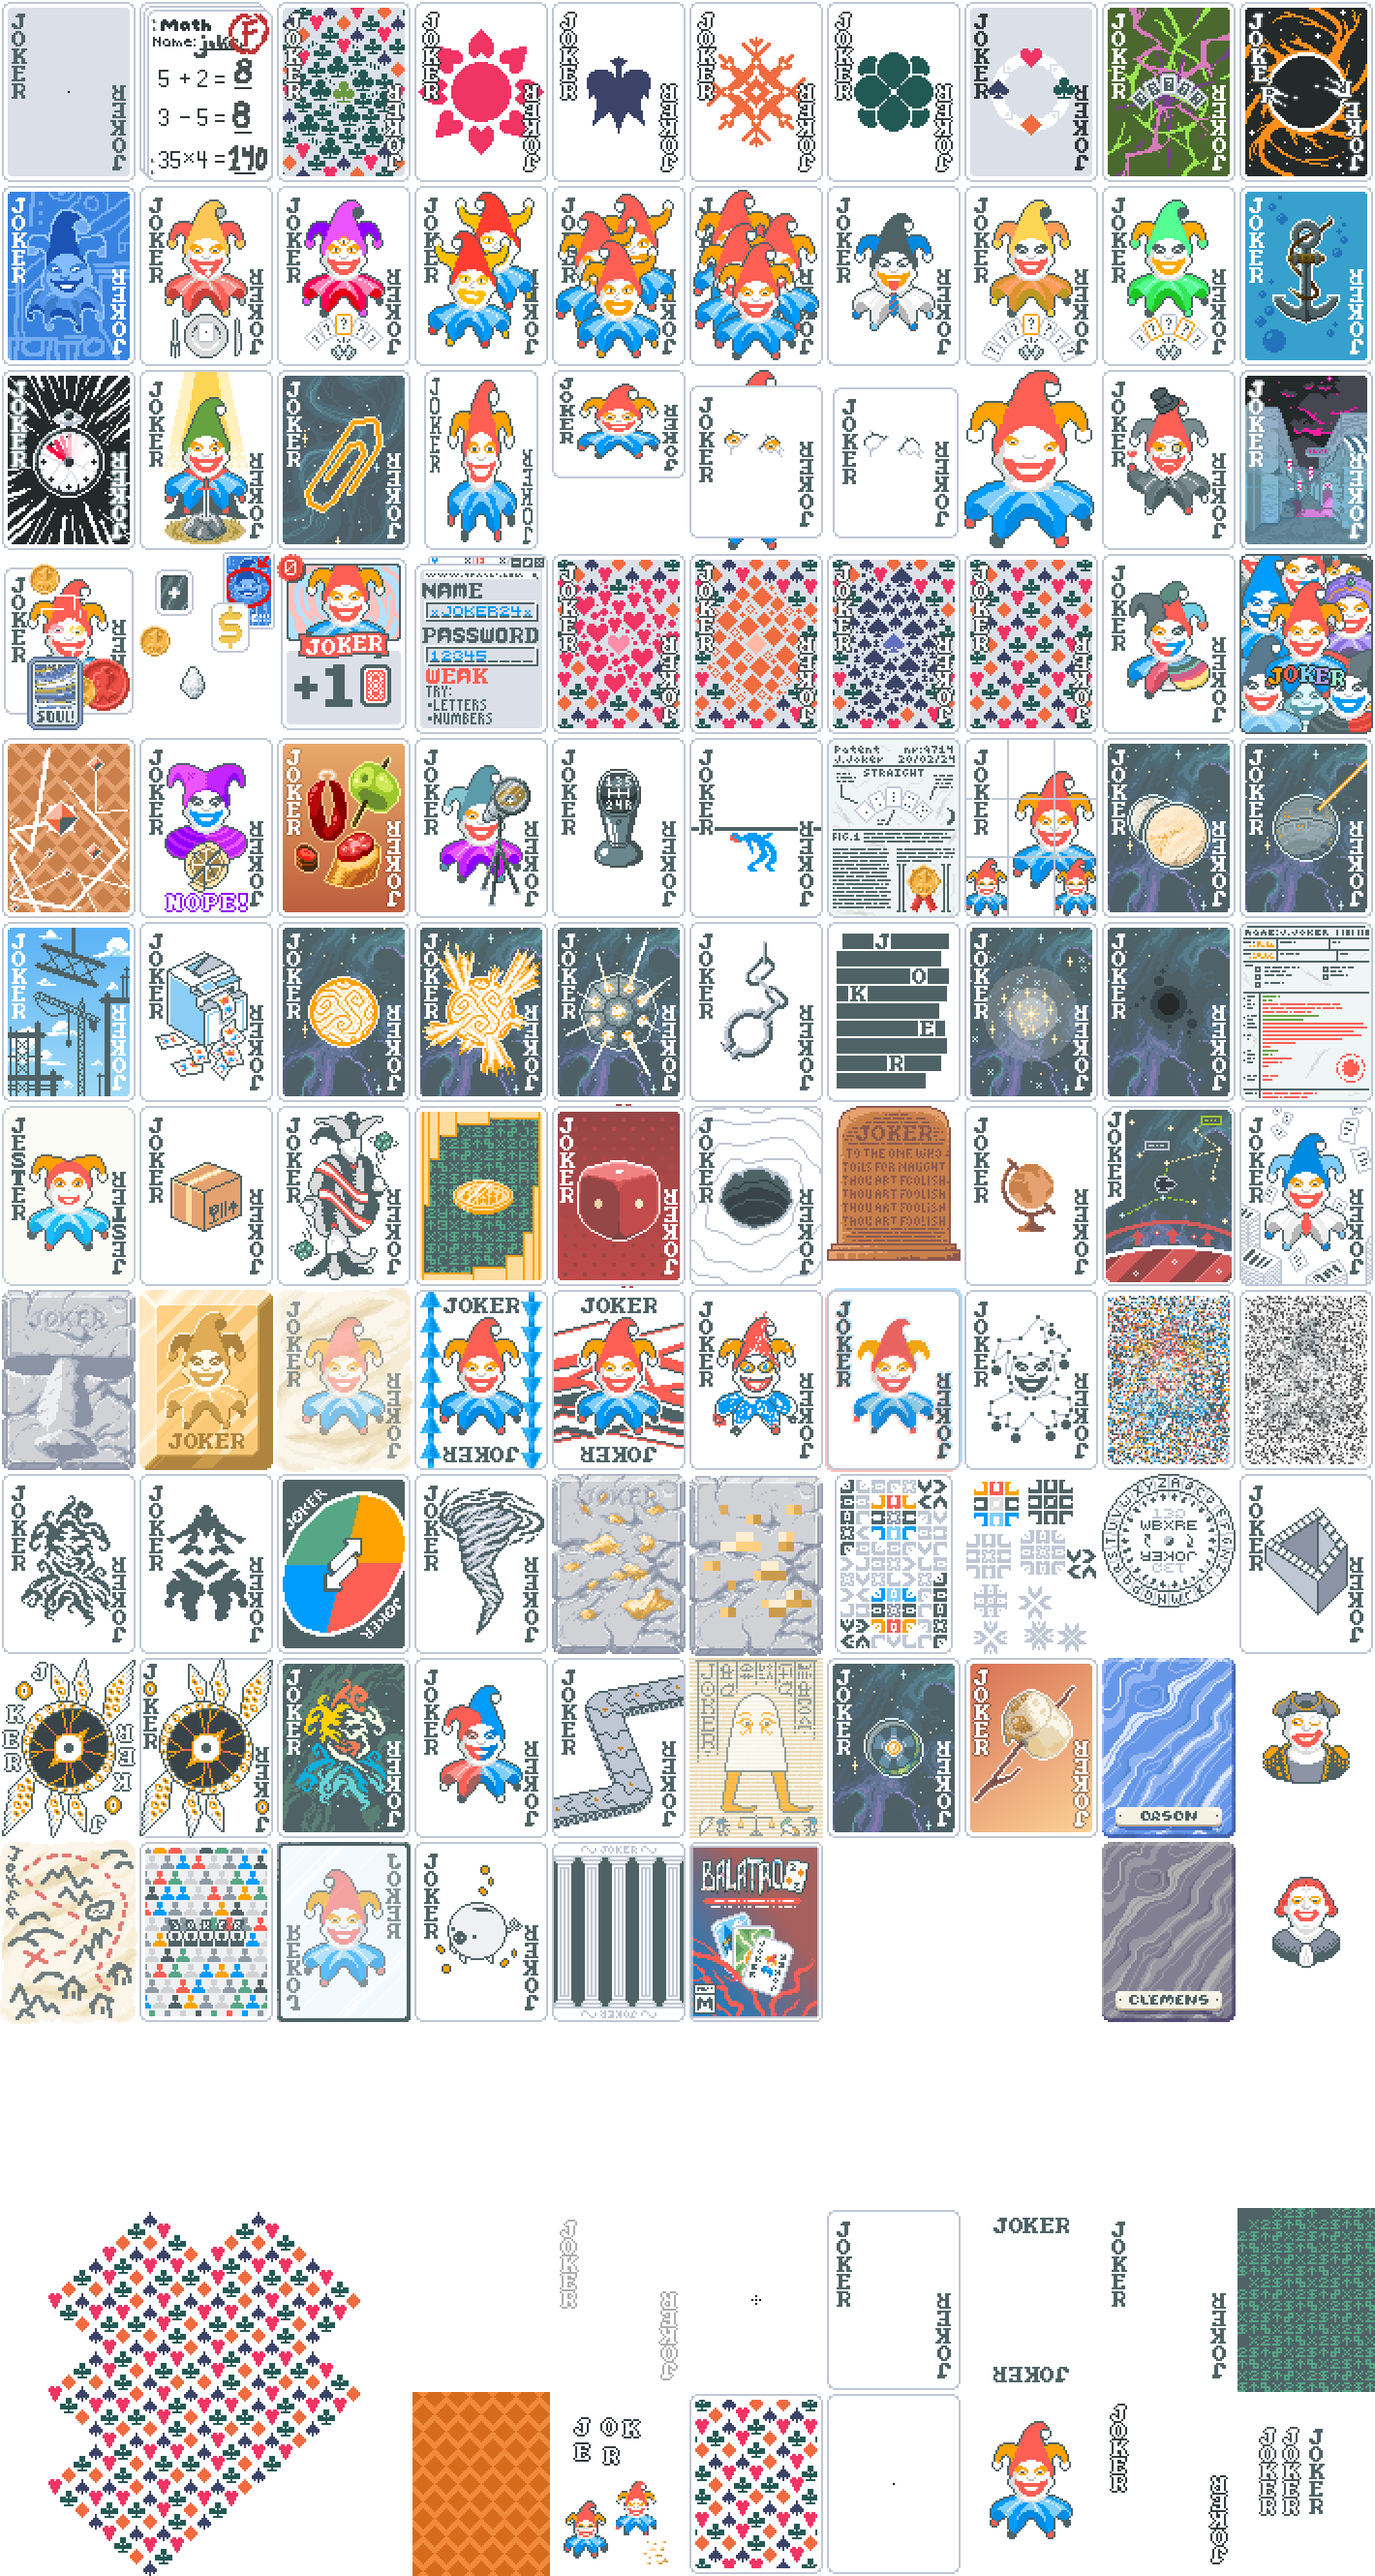
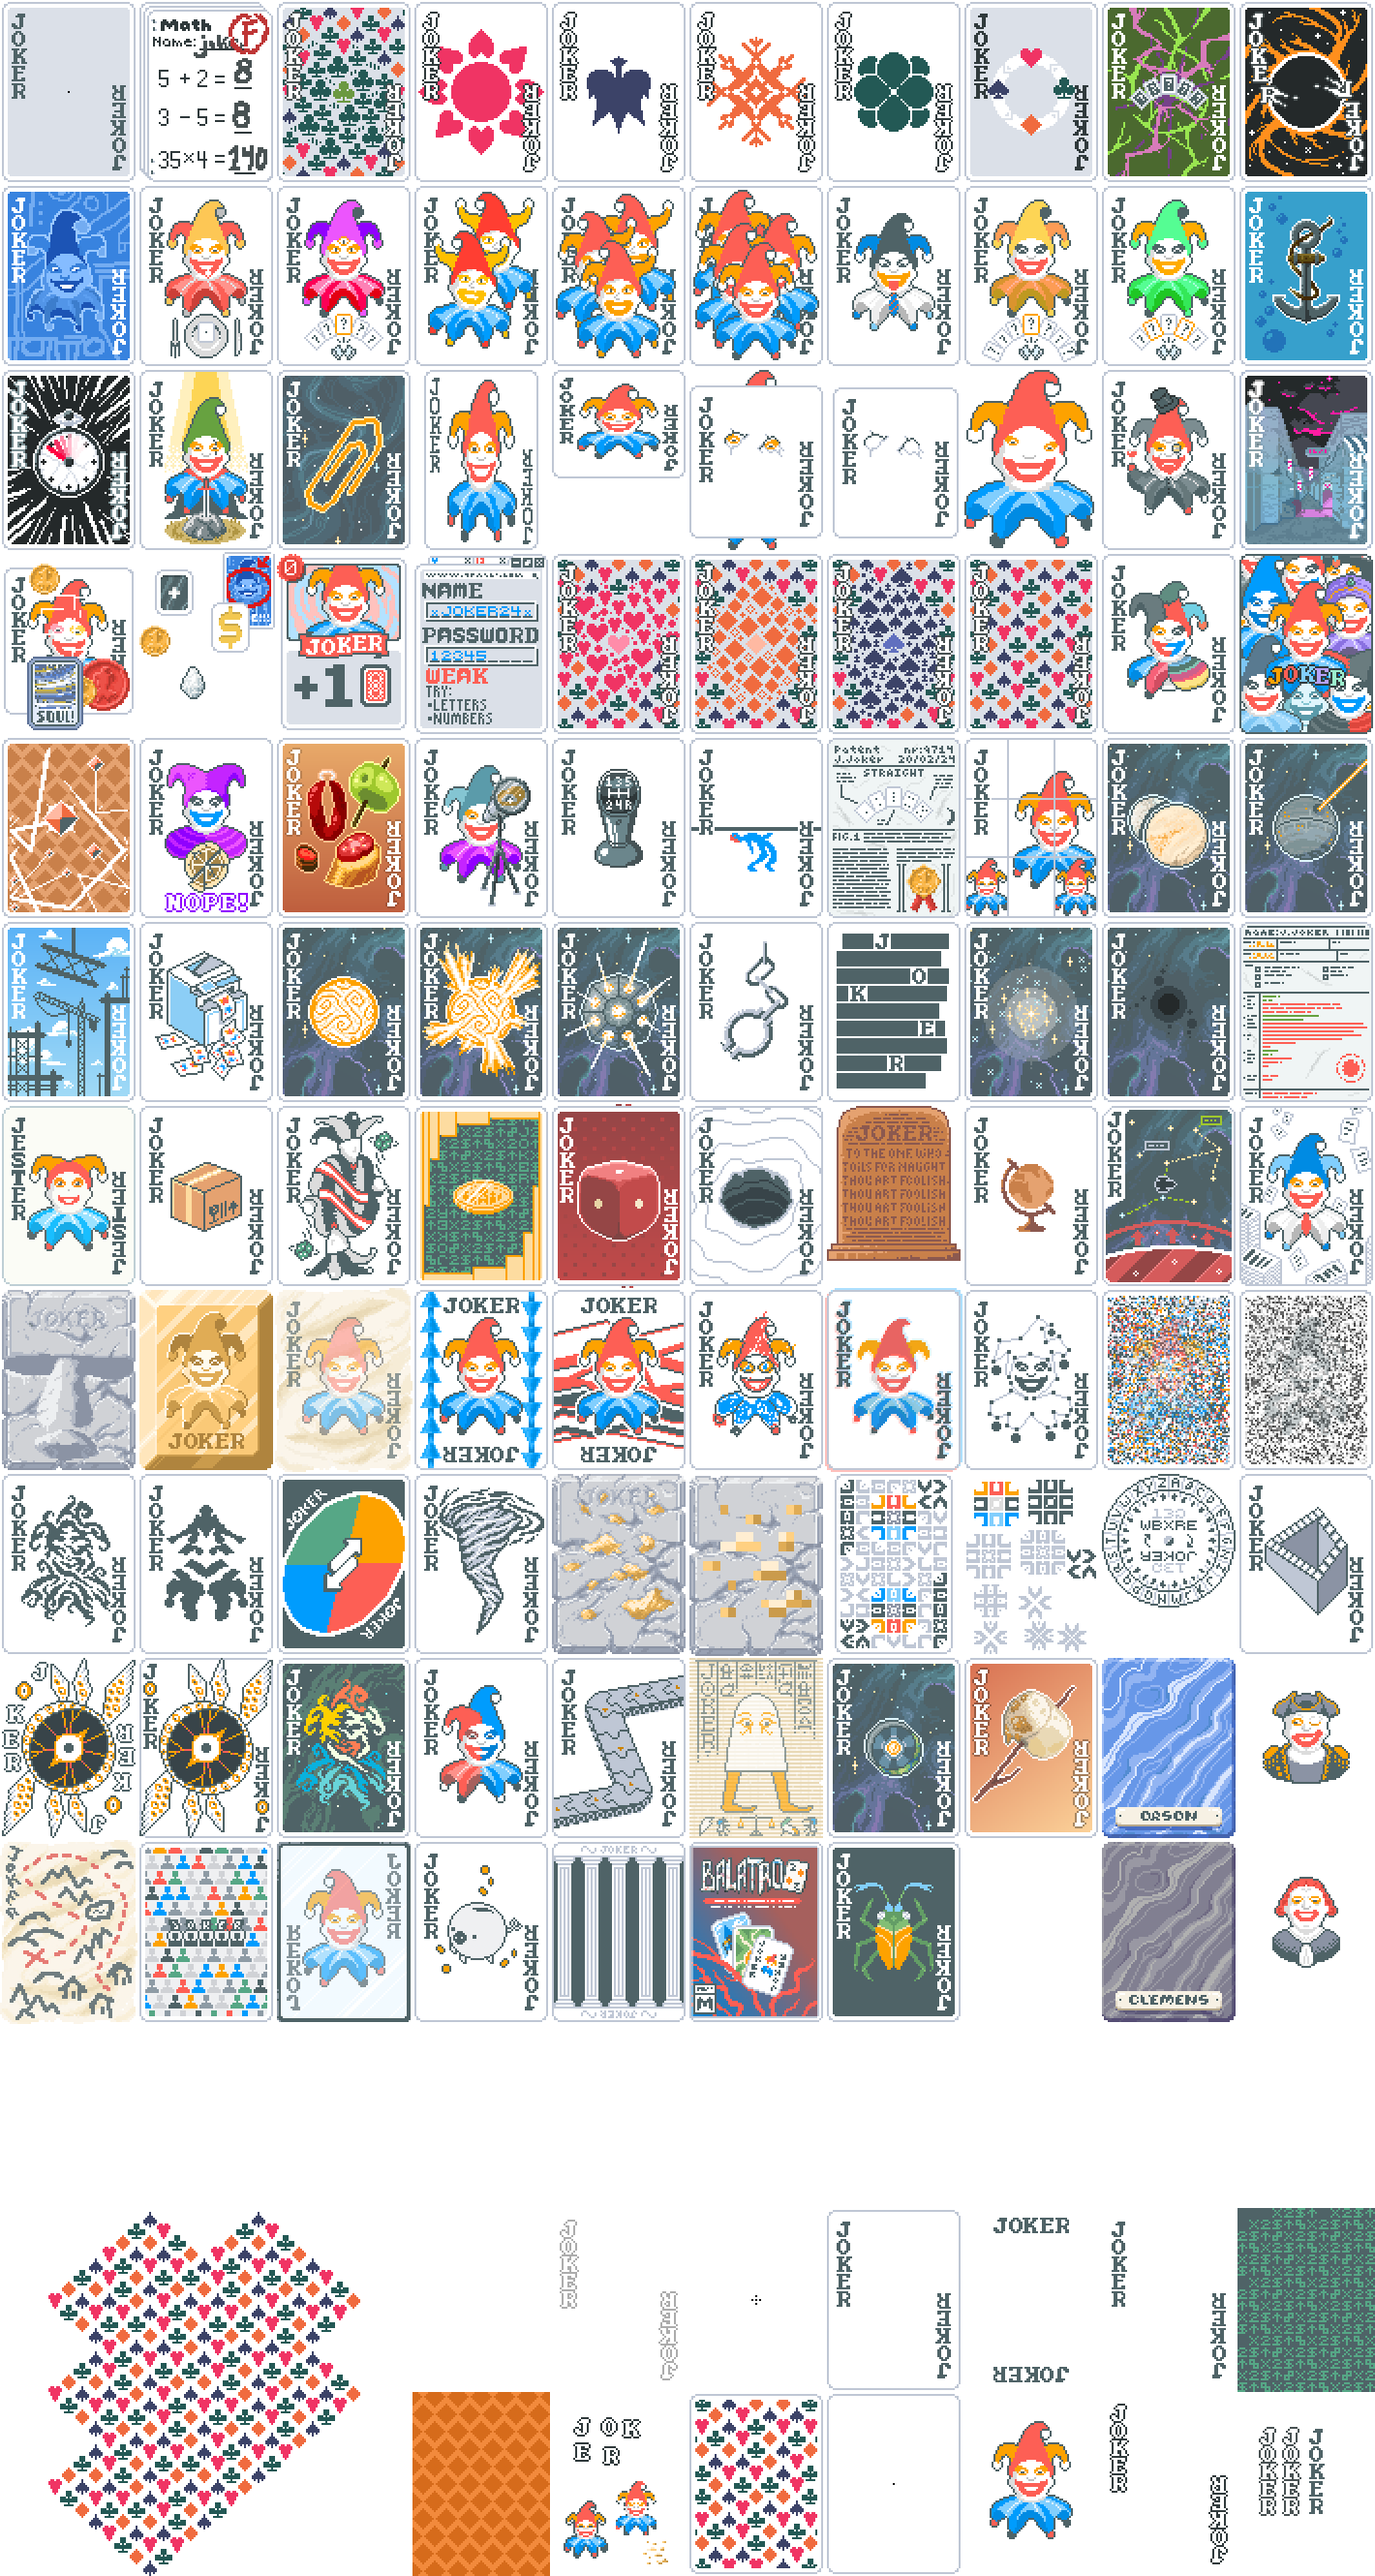
Add Preserved Insect

Changed region(s): [[0.5887, 0.7177, 0.7127, 0.8113]]

diff --git a/web/addjokers.js b/web/addjokers.js
@@ -789,6 +789,15 @@ let jokers = [
     image_url: "img/j/sequel.png",
     rarity: "Rare"
   },
+  {
+    name: "Preserved Insect",
+    text: [
+        "{X:mult,C:white}X1.5{} Mult against {C:attention}Big Blinds{}",
+        "{X:mult,C:white}X2{} Mult against {C:attention}Boss Blinds{}"
+    ],
+    image_url: "img/j/preserved_insect.png",
+    rarity: "Uncommon"
+  },
 
   // {
   //   name: "",
